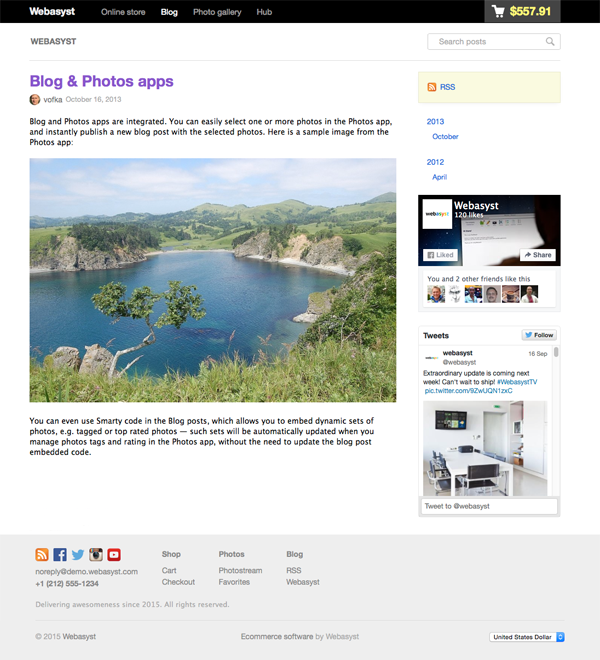
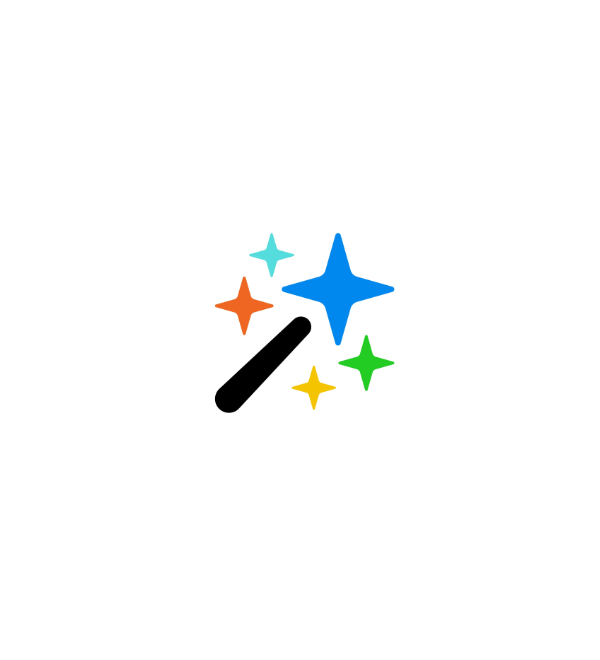
Blog v.2.1.2

diff --git a/wa-apps/blog/themes/default/default.blog.css b/wa-apps/blog/themes/default/default.blog.css
@@ -56,7 +56,7 @@
 .subscribe ul li i.icon16 { margin-top: 0.1em; margin-right: 0.5em; width: 24px; height: 24px; background-position: 0 -50px;}
 .subscribe #twitter-follow-code { overflow: hidden; }
 
-.post { margin-bottom: 20px; padding: 30px; background-color: var(--bg-gray-color); box-shadow: 0 5px 30px rgba(0, 0, 0, 0.06); border-radius: var(--element-border-radius); }
+.post { margin-bottom: 20px; padding: 30px; background-color: var(--bg-color-accent); box-shadow: 0 5px 30px rgba(0, 0, 0, 0.06); border-radius: var(--element-border-radius); }
 .post h3 { font-size: 2em; margin-right: 5px; margin-bottom: 24px; }
 .post h3 a { text-decoration: none; }
 .post img { max-width: 100%; height: auto !important; }

diff --git a/wa-apps/blog/lib/classes/blogViewHelper.class.php b/wa-apps/blog/lib/classes/blogViewHelper.class.php
@@ -36,8 +36,9 @@ class blogViewHelper extends waAppViewHelper
                 if (!is_array($item['link'])) {
                     $item['link'] = htmlspecialchars((string)$item['link'], ENT_QUOTES, 'utf-8');
                 } else {
-                    foreach ($item['link'] as &$l) {
-                        $l = htmlspecialchars((string)$l, ENT_QUOTES, 'utf-8');
+                    foreach ($item['link'] as $l) {
+                        $item['link'] = htmlspecialchars((string)$l, ENT_QUOTES, 'utf-8');
+                        break;
                     }
                 }
                 $item['title'] = htmlspecialchars((string)$item['title'], ENT_QUOTES, 'utf-8');

diff --git a/wa-apps/blog/api/v1/blog.blog.update.method.php b/wa-apps/blog/api/v1/blog.blog.update.method.php
@@ -8,7 +8,7 @@ class blogBlogUpdateMethod extends waAPIMethod
     {
         $id = $this->get('id', true);
         
-        if (!wa()->getUser()->getRights("blog.{$id}", true) < blogRightConfig::RIGHT_FULL) {
+        if (wa()->getUser()->getRights('blog', "blog.{$id}") < blogRightConfig::RIGHT_FULL) {
             throw new waAPIException('access_denied', 403);
         }
 

diff --git a/wa-apps/blog/lib/config/app.php b/wa-apps/blog/lib/config/app.php
@@ -11,8 +11,8 @@ return array(
     'plugins' => true,
     'pages' => true,
     'mobile' => true,
-    'version' => '2.1.1',
-    'critical' => '2.1.1',
+    'version' => '2.1.2',
+    'critical' => '2.1.2',
     'vendor' => 'webasyst',
     'csrf' => true,
     'my_account' => true,
